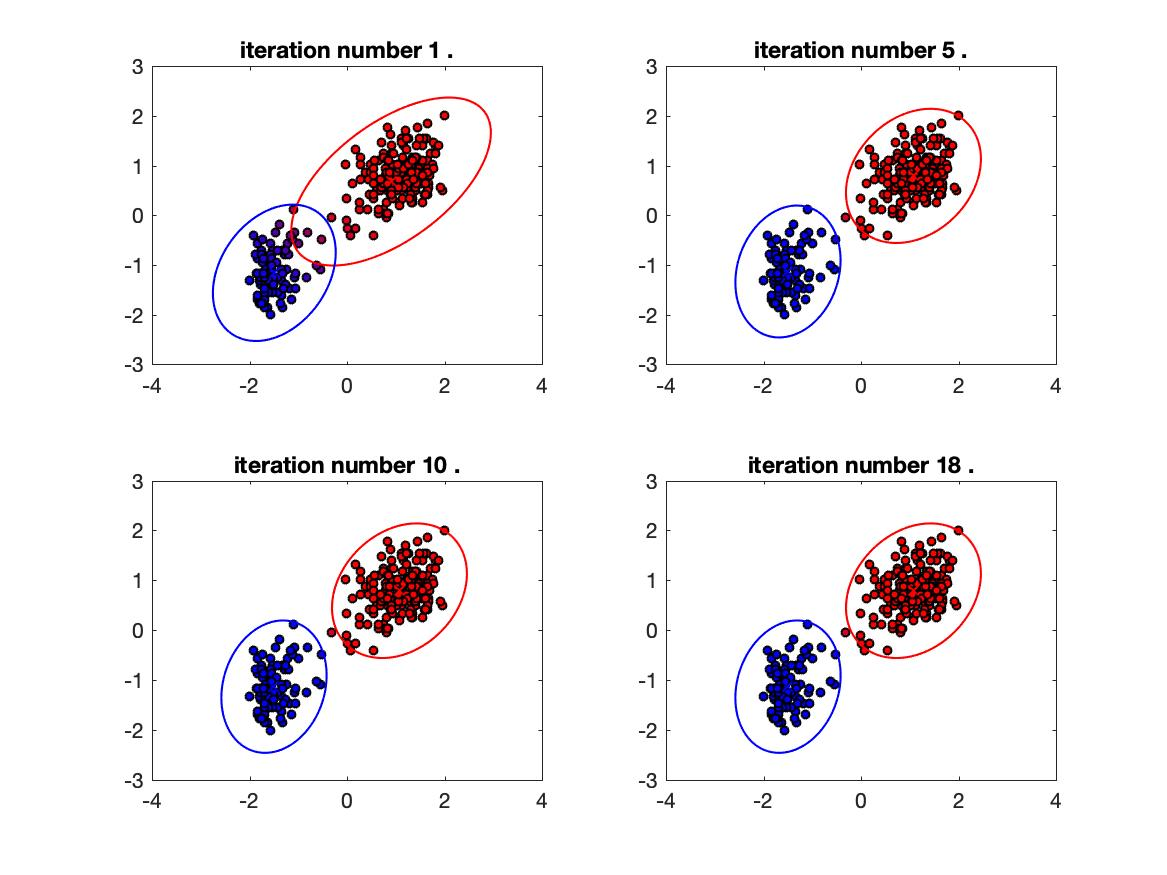
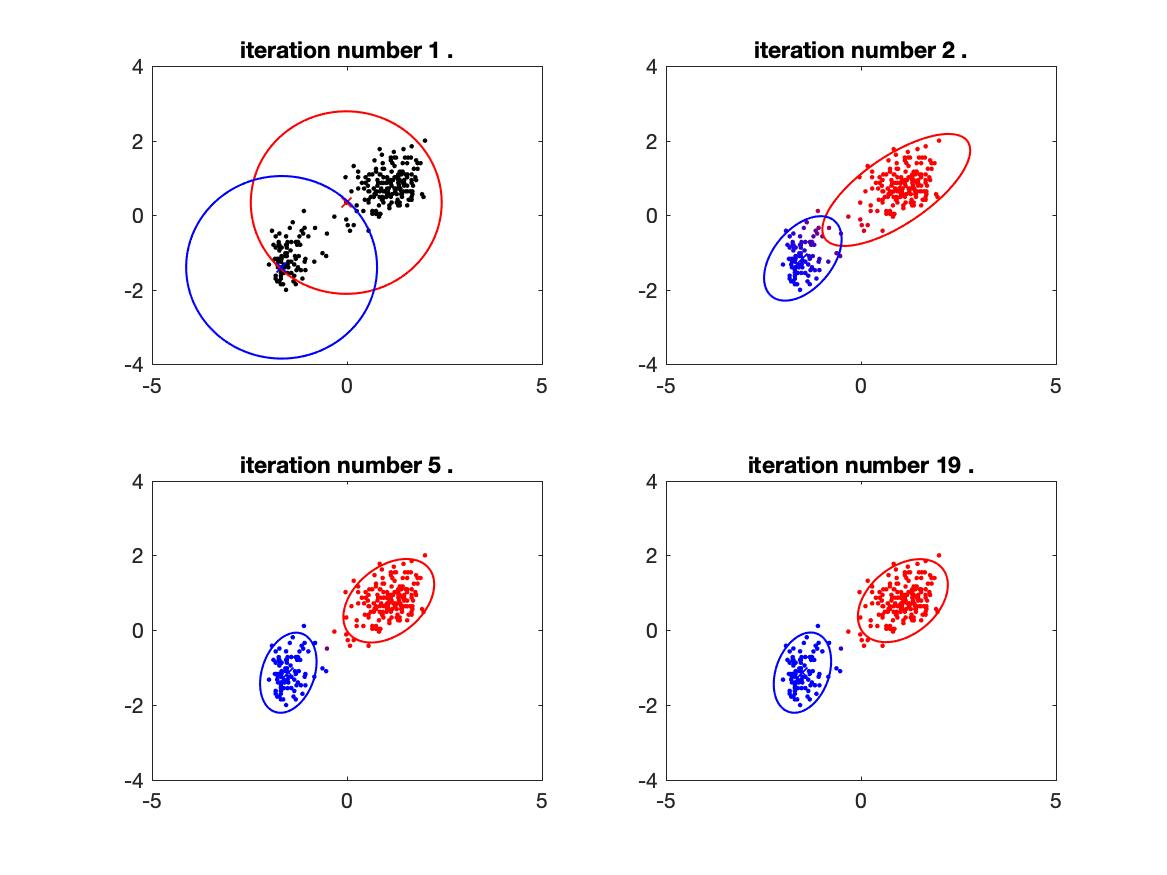
Add files via upload

diff --git a/EM/kmean_em_compare.m b/EM/kmean_em_compare.m
@@ -1,0 +1,59 @@
+%% 3 mixture of gaussian kmeans and EM comparison
+clc
+clear
+mu1 = [0.22 0.45];
+mu2=[0.5 0.5];
+mu3=[0.77 0.55];
+Sigma2 = [0.018  0.01 ;  0.01 0.011];
+Sigma1 = [0.011 -0.01 ; -0.01 0.018];
+Sigma3 = Sigma1;
+mixmat = [0.5 0.3 0.2]';
+r1=mvnrnd(mu1,Sigma1,100);
+r2=mvnrnd(mu2,Sigma2,100);
+r3=mvnrnd(mu3,Sigma3,100);
+figure(1)
+subplot(3,2,1)
+plot(r1(:,1),r1(:,2),'.r')
+hold on
+plot(r2(:,1),r2(:,2),'.g')
+plot(r3(:,1),r3(:,2),'.b')
+title('original data')
+x_data=[r1;r2;r3];
+y_data=[ones(100,1);2*ones(100,1);3*ones(100,1)];
+[y_k_means,C]=kmeans(x_data,3);
+subplot(3,2,2)
+plot(x_data(y_k_means==1,1),x_data(y_k_means==1,2),'b.')
+hold on
+plot(C(1,1),C(1,2),'kx','markersize',5)
+plot(x_data(y_k_means==2,1),x_data(y_k_means==2,2),'r.')
+plot(C(2,1),C(2,2),'kx','markersize',5)
+plot(x_data(y_k_means==3,1),x_data(y_k_means==3,2),'g.')
+plot(C(3,1),C(3,2),'kx','markersize',5)
+title('kmeans')
+[~,y_predicted_rnd]=EM(x_data,3,'random',500,10^-5,'ML');
+[~,y_predicted_rnd_data]=EM(x_data,3,'data_random',500,10^-5,'ML');
+[~,y_predicted_k_means]=EM(x_data,3,'k_means',500,10^-5,'ML');
+
+subplot(3,2,3)
+plot(x_data(y_predicted_rnd==1,1),x_data(y_predicted_rnd==1,2),'g.')
+hold on
+plot(x_data(y_predicted_rnd==2,1),x_data(y_predicted_rnd==2,2),'r.')
+plot(x_data(y_predicted_rnd==3,1),x_data(y_predicted_rnd==3,2),'b.')
+title('initialize with random value')
+subplot(3,2,4)
+plot(x_data(y_predicted_rnd_data==1,1),x_data(y_predicted_rnd_data==1,2),'g.')
+hold on
+plot(x_data(y_predicted_rnd_data==2,1),x_data(y_predicted_rnd_data==2,2),'b.')
+plot(x_data(y_predicted_rnd_data==3,1),x_data(y_predicted_rnd_data==3,2),'r.')
+title('initialize with random data')
+subplot(3,2,5)
+plot(x_data(y_predicted_k_means==1,1),x_data(y_predicted_k_means==1,2),'r.')
+hold on
+plot(x_data(y_predicted_k_means==2,1),x_data(y_predicted_k_means==2,2),'b.')
+plot(x_data(y_predicted_k_means==3,1),x_data(y_predicted_k_means==3,2),'g.')
+title('initialize with kmeans')
+
+ccr_random=label_clustring_ccr(y_predicted_rnd,3,y_data);
+ccr_data_random=label_clustring_ccr(y_predicted_rnd_data,3,y_data);
+ccr_k_means=label_clustring_ccr(y_predicted_k_means,3,y_data);
+

diff --git a/EM/EM_oldfaithful.m b/EM/EM_oldfaithful.m
@@ -18,13 +18,13 @@ K=2;
 %Use result of k means as ground truth.
 [y_data,C]=kmeans(x_data,K);
 %% 
-[out1,y_predicted_rnd]=EM(x_data,K,'random',50,10^-12,'ML',[1,5,10,15,20,25,30,36]);
+[out1,y_predicted_rnd]=EM(x_data,K,'random',50,10^-12,'ML',[1,2,3,5,8,12,20,29]);
 saveas(out1,'initialize with random value.jpg')
 clf('reset')
-[out2,y_predicted_rnd_data]=EM(x_data,K,'data_random',50,10^-12,'ML',[1,5,10,18]);
+[out2,y_predicted_rnd_data]=EM(x_data,K,'data_random',50,10^-12,'ML',[1,2,5,19]);
 saveas(out2,'initialize with random data.jpg')
 clf('reset')
-[out3,y_predicted_k_means]=EM(x_data,K,'k_means',500,10^-12,'ML',[1,5,10,14]);
+[out3,y_predicted_k_means]=EM(x_data,K,'k_means',500,10^-12,'ML',[1,2,8,16]);
 saveas(out3,'initialize with k means.jpg')
 clf('reset')
 %%
@@ -40,21 +40,27 @@ hold on
 plot(x_data(y_data==2,1),x_data(y_data==2,2),'b.');
 plot(C(:,1),C(:,2),'xk','MarkerSize',8,'linewidth',5)
 title('Clustering by k means algorithm')
+xlim([-4,4]);
+ylim([-4,4]);
 subplot(2,2,2)
 plot(x_data(y_predicted_rnd==1,1),x_data(y_predicted_rnd==1,2),'b.'); 
 hold on
 plot(x_data(y_predicted_rnd==2,1),x_data(y_predicted_rnd==2,2),'r.'); 
 title('Clustering by EM algorithm initilized by random value')
+xlim([-4,4]);
+ylim([-4,4]);
 subplot(2,2,3)
 plot(x_data(y_predicted_rnd_data==1,1),x_data(y_predicted_rnd_data==1,2),'r.'); 
 hold on
 plot(x_data(y_predicted_rnd_data==2,1),x_data(y_predicted_rnd_data==2,2),'b.'); 
 title('Clustering by EM algorithm initilized by random data')
+xlim([-4,4]);
+ylim([-4,4]);
 subplot(2,2,4)
 plot(x_data(y_predicted_k_means==1,1),x_data(y_predicted_k_means==1,2),'b.'); 
 hold on
 plot(x_data(y_predicted_k_means==2,1),x_data(y_predicted_k_means==2,2),'r.');
 title('Clustering by EM algorithm initilized by k means')
-
-
+xlim([-4,4]);
+ylim([-4,4]);
 

diff --git a/EM/plot_figure.m b/EM/plot_figure.m
@@ -11,7 +11,7 @@ function out=plot_figure(x_data,iter,visual,mu,sigma,r)
     F = @(x,y) pdf(G,[x y]);
     soft_ass = [r(:,1), zeros(n, 1), r(:,2)]; % fraction of red and blue   
     for i=1:n
-        plot(x_data(i, 1), x_data(i, 2), 'o', 'MarkerSize', 4, 'MarkerFaceColor', soft_ass(i, :), 'MarkerEdgeColor', 'k');
+        plot(x_data(i, 1), x_data(i, 2), '.', 'MarkerSize', 5, 'Markeredgecolor', soft_ass(i, :));
         hold on
     end
    
@@ -28,7 +28,8 @@ function out=plot_figure(x_data,iter,visual,mu,sigma,r)
     h = plot(z(1, :), z(2, :), 'color', 'r', 'linewidth', 1);
     hold on
     plot(mu1(1), mu1(2),  'x','markersize', 5,'color', 'r');
-    xlim([-4,4]);
+    xlim([-5,5]);
+    ylim([-4,4]);
     mu2 = mu(2,:)';
     [U, D] = eig(sigma(:,:,2));
     ni = 100;
@@ -41,7 +42,8 @@ function out=plot_figure(x_data,iter,visual,mu,sigma,r)
     h = plot(z(1, :), z(2, :), 'color', 'b', 'linewidth', 1);
     hold on
     plot(mu2(1), mu2(2),  'x','markersize', 5,'color', 'b');
-    xlim([-4,4]);
+    xlim([-5,5]);
+    ylim([-4,4]);
     out=1;
     title(['iteration number ',num2str(iter),' .']);
 end

diff --git a/EM/EM.m b/EM/EM.m
@@ -43,15 +43,21 @@ function [out,y_predicted] = EM(x_data,K,method,iters,diff,estimate,visual)
     obj_fun=0;
 
     for iter=1:iters
+        if ismember(iter,visual)
+            if iter==1
+             out=plot_figure(x_data,iter,visual,mu,sigma,zeros(n,K));
+            else
+             out=plot_figure(x_data,iter,visual,mu,sigma,r);
+            end
+        end
+        
         % E-step
         r=e_step(x_data,K,pi,mu,sigma);
         % M-step
         [pi,mu,sigma]=m_step(x_data,K,r,estimate);
         [~,predicted]=max(r,[],2);
         obj_fun(iter+1)=sum(log(mvnpdf(x_data,mu(predicted,:),sigma(:,:,predicted)))); 
-        if ismember(iter,visual)
-            out=plot_figure(x_data,iter,visual,mu,sigma,r);
-        end
+
 
         if abs((obj_fun(iter+1)-obj_fun(iter))/obj_fun(iter+1))<diff || iter==iters
             fprintf('Optimization converged after %d iterations .\n',iter);

diff --git a/EM/EM_gmm.m b/EM/EM_gmm.m
@@ -24,10 +24,10 @@ mu2 = [0 3];
 sigma2 = [2 1; 1 2];
 R2 = mvnrnd(mu2,sigma2,100);
 
-figure
-plot(R1(:,1),R1(:,2),'+')
-hold on
-plot(R2(:,1),R2(:,2),'o')
+% figure
+% plot(R1(:,1),R1(:,2),'+')
+% hold on
+% plot(R2(:,1),R2(:,2),'o')
 
 y_data=ones(samples_num,1);
 y_data(101:samples_num)=2;
@@ -36,9 +36,9 @@ x_data=[R1;R2];
 K=2;
 
 %%
-y_predicted_rnd=EM(x_data,K,'random',500,10^-5,'MAP');
-y_predicted_rnd_data=EM(x_data,K,'data_random',500,10^-5,'MAP');
-y_predicted_k_means=EM(x_data,K,'k_means',500,10^-5,'MAP');
+[~,y_predicted_rnd]=EM(x_data,K,'random',500,10^-5,'MAP');
+[~,y_predicted_rnd_data]=EM(x_data,K,'data_random',500,10^-5,'MAP');
+[~,y_predicted_k_means]=EM(x_data,K,'k_means',500,10^-5,'MAP');
 
 
 

diff --git a/EM/EM_adult.m b/EM/EM_adult.m
@@ -20,9 +20,9 @@ rng default
 % scaling between 0 and 1.
 x_data=(x_data-min(x_data))./(max(x_data)-min(x_data));
 %%
-y_predicted_rnd=EM(x_data,K,'random',100,10^-12,'ML');
-y_predicted_rnd_data=EM(x_data,K,'data_random',100,10^-12,'ML');
-y_predicted_k_means=EM(x_data,K,'k_means',500,10^-12,'ML');
+[~,y_predicted_rnd]=EM(x_data,K,'random',100,10^-12,'ML');
+[~,y_predicted_rnd_data]=EM(x_data,K,'data_random',100,10^-12,'ML');
+[~,y_predicted_k_means]=EM(x_data,K,'k_means',500,10^-12,'ML');
 
 
 

diff --git a/EM/EM_zoo.m b/EM/EM_zoo.m
@@ -18,9 +18,9 @@ rng default
 
 [K,~]=size(unique(y_data));
 %%
-y_predicted_rnd=EM(x_data,K,'random',50,10^-12,'MAP');
-y_predicted_rnd_data=EM(x_data,K,'data_random',50,10^-12,'MAP');
-y_predicted_k_means=EM(x_data,K,'k_means',500,10^-12,'MAP');
+[~,y_predicted_rnd]=EM(x_data,K,'random',50,10^-12,'MAP');
+[~,y_predicted_rnd_data]=EM(x_data,K,'data_random',50,10^-12,'MAP');
+[~,y_predicted_k_means]=EM(x_data,K,'k_means',500,10^-12,'MAP');
 
 
 

diff --git a/EM/m_step.m b/EM/m_step.m
@@ -31,7 +31,7 @@ function [pi,mu,sigma] = m_step(x_data,K,r,estimate)
             numerator=r(i,k).*(x_data(i,:)'*x_data(i,:))+numerator;
             end
             sigma(:,:,k)=(numerator./sum(r(:,k)))-mu(k,:)'*mu(k,:);
-            sigma(:,:,k)=sigma(:,:,k)+ 0.1*eye(d);
+            sigma(:,:,k)=sigma(:,:,k)+ 0.00001*eye(d);
         end
     end
     
